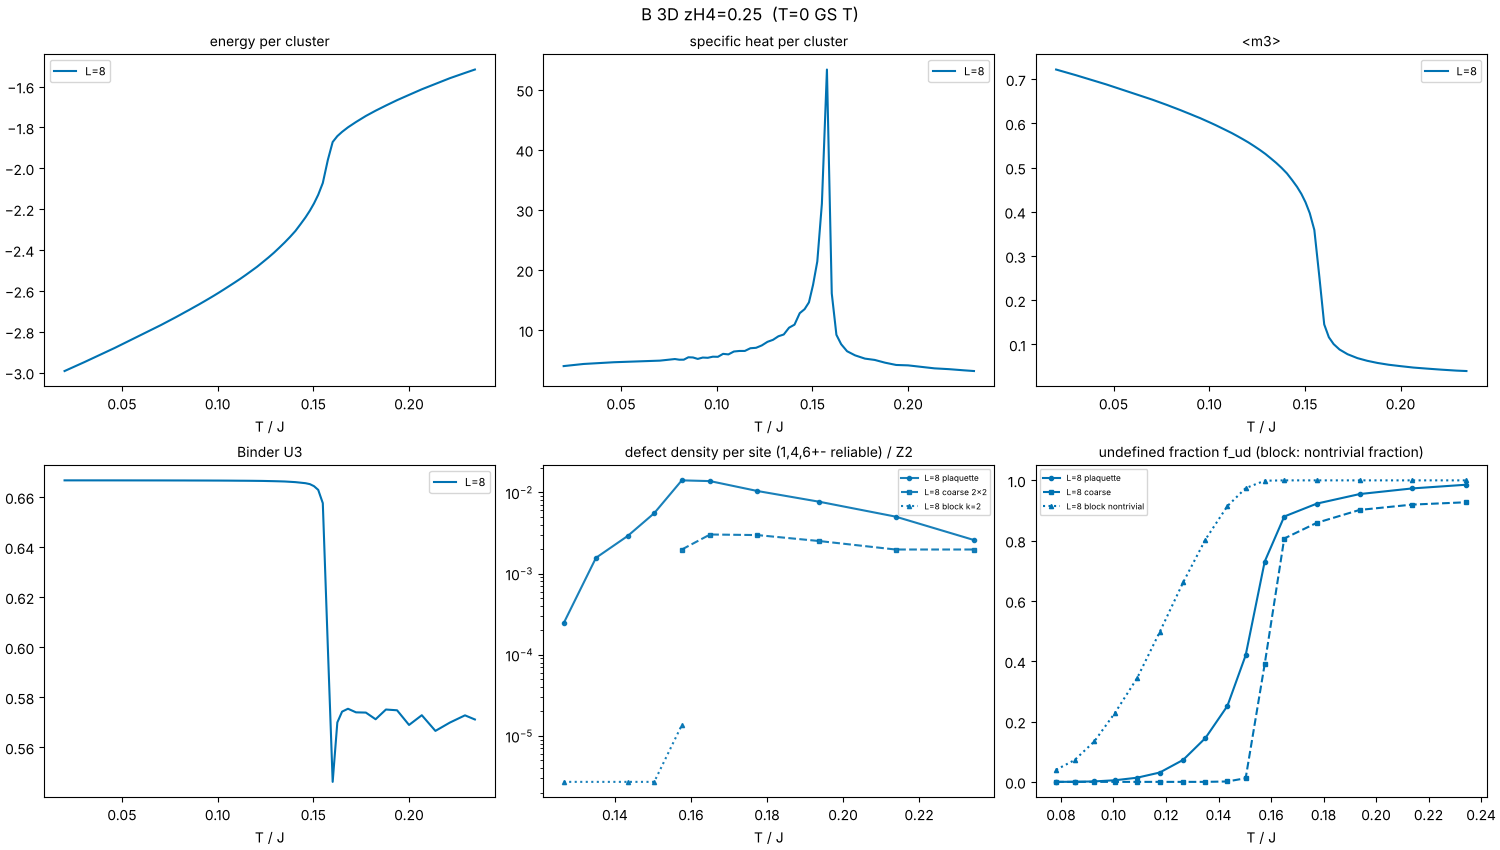
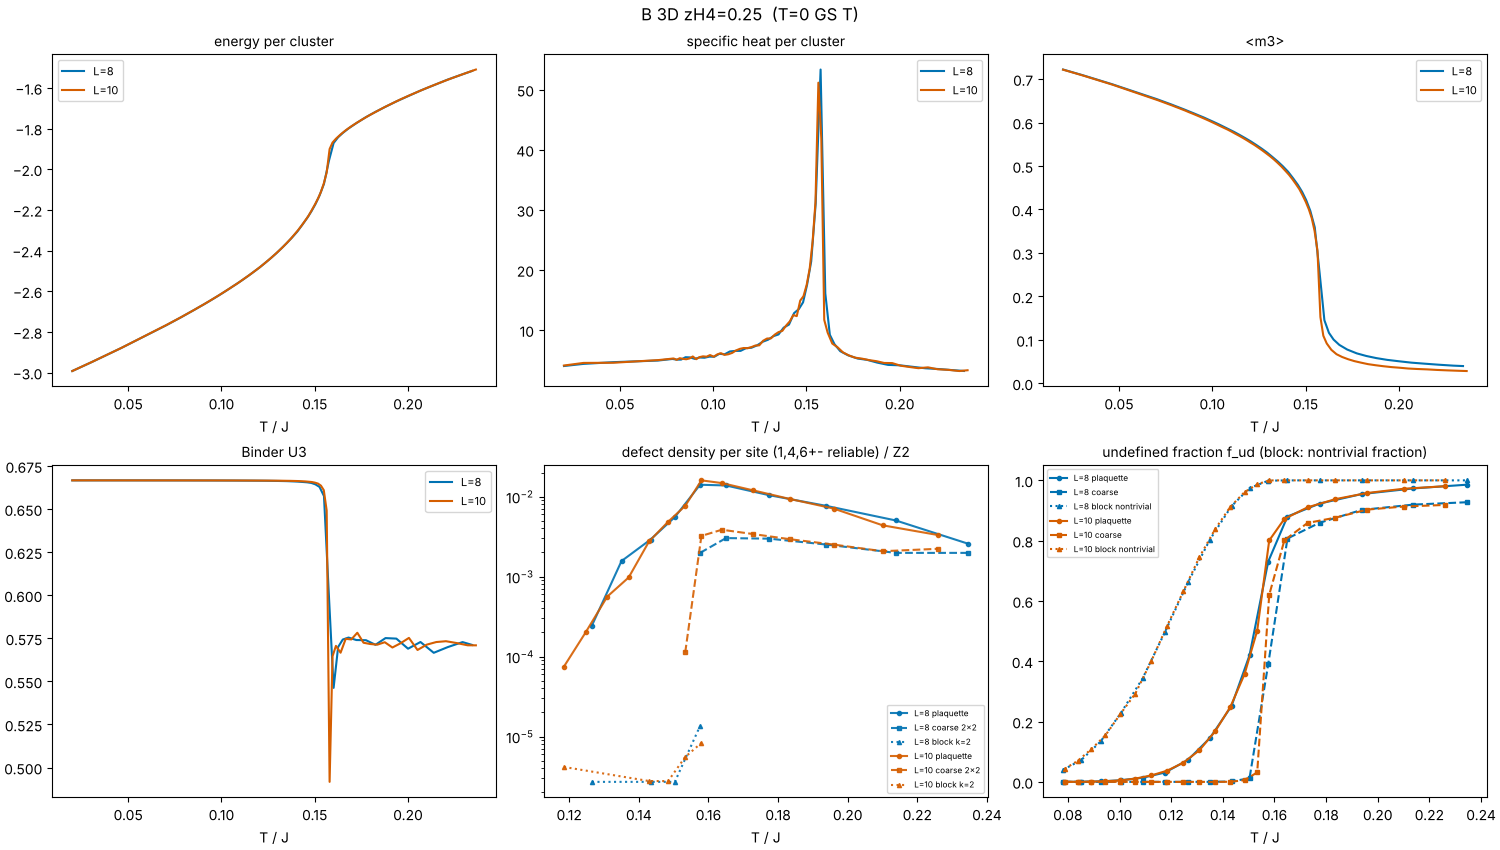
M4 stage-1 tier-2 report with tables, bimodality check
Claude-Session: https://claude.ai/code/session_01Esc9CtzvPxuMvhEnxWoDri

diff --git a/tools/tier2_tables.py b/tools/tier2_tables.py
@@ -1,0 +1,62 @@
+"""Tier-2 tables from data/stage1/*.npz: size dependence of c_peak / T_c / Binder / PT health (A, B pt),
+heat-cool windows (B first-order points), defect statistics at T_c (coarse detector, plaquette) and scale ratio R_b.
+Usage: python tools/tier2_tables.py"""
+import glob, json, re
+from collections import defaultdict
+from pathlib import Path
+import numpy as np
+from polyspin.analysis.finite_size import loglog_slope
+
+def load(p):
+    z = np.load(p, allow_pickle=False); d = {k: z[k] for k in z.files}
+    d["attrs"] = json.loads(str(z["attrs"])); return d
+
+runs = defaultdict(dict)
+for p in sorted(glob.glob("data/stage1/*.npz")):
+    cut, dim, L, par, val, tag = re.match(r"(\w+?)_(\d)d_L(\d+)_(zG|zH4)([\d.]+)_(\w+)\.npz", Path(p).name).groups()
+    runs[(cut, int(dim), float(val))][(int(L), tag)] = load(p)
+
+def peak(d):
+    i = int(np.argmax(d["th_c"])); return i
+print("## PT points: size dependence")
+print("| point | L | N | T_peak | c_peak | Binder min(m1..) | swap min | trips | rho_coarse(T_c) | f_ud,coarse(T_c) | f_ud,plaq(T_c) | R_b |")
+print("|---|---|---|---|---|---|---|---|---|---|---|---|")
+exps = {}
+for (cut, dim, val), g in sorted(runs.items()):
+    Ls = sorted(L for (L, t) in g if t == "pt")
+    if not Ls: continue
+    Ns, cp, Tp = [], [], []
+    for L in Ls:
+        d = g[(L, "pt")]; i = peak(d)
+        key = d['dm_coarse_und_frac'] if 'dm_coarse_und_frac' in d else None
+        j = i
+        if key is not None and not np.isfinite(key[i]):
+            ok = np.where(np.isfinite(key))[0]; j = ok[np.argmin(abs(d['T'][ok] - d['T'][i]))] if len(ok) else i
+        cd = d['dm_coarse_density'][j] if 'dm_coarse_density' in d else np.full(7, np.nan); dens = cd[:4].sum() if cd.ndim else cd  # all reportable classes approx
+        names = json.loads(str(d.get('class_names', '[]'))) if False else ['1','6+','3+','4','6-','3-','2']
+        rep = [k for k, nm in enumerate(names) if nm in ('4','6+','6-')]
+        rho = cd[rep].sum()
+        rb = d['dm_scale_ratio_R4'][j] if 'dm_scale_ratio_R4' in d else float('nan')
+        print(f"| {cut} {dim}D {val} | {L} | {d['attrs']['N']} | {d['T'][i]:.4f} | {d['th_c'][i]:.1f} | {np.nanmin(d['th_binder'][:,1]):.3f} | {d['swap'].min():.2f} | {int(d['round_trips'])} | {rho:.2e} | {d['dm_coarse_und_frac'][j] if 'dm_coarse_und_frac' in d else float('nan'):.2f} | {d['dm_plaq_und_frac'][j]:.2f} | {rb:.2f} |")
+        Ns.append(d["attrs"]["N"]); cp.append(d["th_c"][i]); Tp.append(d["T"][i])
+    if len(Ls) >= 2:
+        a, ea = loglog_slope(np.array(Ns, float), np.array(cp))
+        exps[(cut, dim, val)] = (a, ea, Ls)
+print("\n## c_peak ~ N^a (a=1: first order; 2D/3D continuous: alpha/(d nu))")
+for k, (a, ea, Ls) in exps.items():
+    print(f"- {k[0]} {k[1]}D {k[2]}: L={Ls}: a = {a:.2f} ± {ea:.2f}" if np.isfinite(ea) else f"- {k[0]} {k[1]}D {k[2]}: L={Ls}: a = {a:.2f}")
+print("\n## First-order points: heat vs cool, nematic m2 half-point and energy jump")
+print("| point | L | T_up | T_down | dT | c_peak(heat) | max de (heat) |")
+print("|---|---|---|---|---|---|---|")
+def half(d, l=1):
+    T, m = d["T"], d["th_m"][:, l]; o = np.argsort(T); T, m = T[o], m[o]
+    lo, hi = np.nanmin(m), np.nanmax(m); h = 0.5 * (lo + hi)
+    for i in range(len(T) - 1):
+        if (m[i] - h) * (m[i + 1] - h) <= 0 and m[i] != m[i + 1]:
+            return T[i] + (h - m[i]) * (T[i + 1] - T[i]) / (m[i + 1] - m[i])
+    return np.nan
+for (cut, dim, val), g in sorted(runs.items()):
+    for L in sorted({L for (L, t) in g if t == "heat"}):
+        h, c = g[(L, "heat")], g[(L, "cool")]
+        o = np.argsort(h["T"]); e = h["th_e"][o]
+        print(f"| B {dim}D zH4={val} | {L} | {half(h):.4f} | {half(c):.4f} | {half(h)-half(c):+.4f} | {h['th_c'].max():.0f} | {np.nanmax(np.diff(e)):.2f} |")

diff --git a/docs/M4_stage1_tier2_report.md b/docs/M4_stage1_tier2_report.md
@@ -1,0 +1,59 @@
+# M4 1단계 2층 보고 — 3D L = 10, 2D L = 24 완료 (56개 실행)
+
+2층(절단선 A zG = 0.5, 1.0, 1.5; 절단선 B zH₄ = 0.25, 1.0, 2.0)이 끝났다. 1층과 합쳐 `data/stage1/`에 요약 56개가 있다(원자료 HDF5는 `runs/stage1/`, git 제외). 표는 `tools/tier2_tables.py`가 만들고 `docs/tier2_tables.md`에 있다. 그림은 `docs/figures/stage1/`.
+**T = 0 해석값과 모순되는 결과는 없다.** 아래는 기대와 달랐던 점부터 쓴다.
+
+## 먼저 알릴 것
+
+### 1. 계산 중단과 재개 (결과에는 영향 없음)
+컨테이너가 대화 사이에 여러 번 재부팅되어 러너가 죽었고, 하루 이상 진행이 멈췄다. 대화가 이어지는 동안에는 러너가 살아 있어서, 모니터를 걸어 둔 채 나머지를 끝냈다. 3D zH₄ = 2 heat 실행은 "resumed from checkpoint" 줄 없이 다시 돌았을 수 있다(체크포인트 이어받기 여부를 확인하지 못했다). 완료된 출력은 시드와 설정이 같고 스윕 수가 계획과 같으므로 결과 해석에는 영향이 없다고 본다. 무인 장시간 계산(3층, 약 10 h)에는 같은 문제가 재발하므로 아래 "결정이 필요한 것" 2번에 올렸다.
+
+### 2. 3D A에서 1차 전이의 증거는 아직 없다 — 판정도 못 한다 (H1)
+| 점 | c_peak 지수 a (c ∝ N^a, L = 8→10) | 에너지 누적량 V (2/3이면 이중봉우리 없음) | 교환율 최소 (L = 8 → 10) | 왕복 (L = 8 → 10) |
+| --- | --- | --- | --- | --- |
+| zG = 0.5 | 0.49 | 0.6661 → 0.6662 | 0.28 → 0.19 | 15 → 6 |
+| zG = 1.0 | 0.12 | 0.6646 → 0.6654 | 0.28 → 0.20 | 23 → 5 |
+| zG = 1.5 | 0.17 | 0.6646 → 0.6652 | 0.27 → 0.25 | 16 → 6 |
+- 1차 전이라면 a → 1이다. 측정한 a는 0.12–0.49로 1보다 훨씬 작다. 에너지 누적량도 2/3와 3 × 10⁻³ 이내로 같다. 그러나 **크기가 두 개(8, 10)뿐이고 L = 10의 왕복이 5–6회, 교환율 최소가 0.19–0.20**이라 지수의 오차가 크다(오차는 아직 정량하지 않았다). "연속 전이"도 "약한 1차"도 단정하지 않는다. 3층(L = 12)의 결과와 함께 판정한다.
+- **사전 정의한 이중봉우리 규칙이 A 3D L = 10 zG = 0.5에서 "이중봉우리"로 표시됐다**(ΔBIC = 3431, 분리 0.042). 같은 표에서 골 비율은 1.00(골이 없음)이고 누적량은 2/3이다. ΔBIC가 모든 실행에서 2000–3400으로 큰 것은 자기상관이 있는 시계열에 독립 표본 BIC를 쓰기 때문으로 의심한다(확인하지 않았다). 따라서 이 표시는 증거로 쓰지 않는다. 규칙은 바꾸지 않았고, 골 비율과 누적량을 우선 보는 것이 맞는지는 결정 사항(3번)에 올린다. 표: `docs/tier2_bimodality.md`.
+- 전이 온도는 크기에 거의 의존하지 않는다: zG = 0.5, 1.0, 1.5에서 T_peak = 0.1465 → 0.1479, 0.2478 → 0.2490, 0.3306 → 0.3366(L = 8 → 10). 비열 피크 값은 26.5 → 36.8, 32.6 → 35.4, 23.7 → 26.5.
+
+### 3. B 절단선의 1차 전이: 가열·냉각 창이 크기에 따라 달라지고, 한 점은 앞뒤가 맞지 않는다 (H3)
+nematic m₂가 절반이 되는 온도:
+| 점 | L | T_up (가열) | T_down (냉각) | 차이 | 비열 피크(가열) |
+| --- | --- | --- | --- | --- | --- |
+| 2D zH₄ = 1.0 | 16 / 24 | 0.3575 / 0.3576 | 0.3471 / 0.3437 | +0.010 / +0.014 | 40 / 46 |
+| 2D zH₄ = 2.0 | 16 / 24 | 0.8848 / 0.8825 | 0.8888 / 0.8843 | −0.004 / −0.002 | 275 / 491 |
+| 3D zH₄ = 1.0 | 8 / 10 | 0.3700 / 0.3697 | 0.3666 / **0.4008** | +0.003 / **−0.031** | 1279 / 55 |
+| 3D zH₄ = 2.0 | 8 / 10 | 0.8962 / 0.9005 | 0.8788 / 0.8692 | +0.017 / +0.031 | 51 / 67 |
+- 2D zH₄ = 1.0과 3D zH₄ = 2.0에서 가열 − 냉각 차이가 크기와 함께 커진다(0.010 → 0.014, 0.017 → 0.031). 1차 전이의 준안정성이 큰 크기에서 넓어진다는 예상(후속 6.2.1)과 같은 방향이다. 그러나 크기가 둘뿐이다.
+- **3D zH₄ = 1.0 L = 10은 냉각 쪽 반값 온도(0.4008)가 가열 쪽(0.3697)보다 높다.** 1차 전이의 히스테리시스는 가열이 위, 냉각이 아래여야 하므로 이 순서는 물리적 창이 아니다. 냉각 실행의 m₂ 곡선이 단조롭지 않아 반값 교차가 엉뚱한 곳에서 잡혔거나 냉각 실행이 평형에 못 간 것으로 의심한다(m₂ 곡선을 아직 확인하지 않았다). L = 8의 0.3700/0.3666은 이상이 없다. 이 점의 L = 10 T_c는 아직 정하지 않았다. 또 L = 8의 비열 피크 1279는 L = 10의 55와 크게 달라, 가열 사다리의 한 번 뒤집힘에 좌우된 값으로 보인다. 3D zH₄ = 1.0의 비열 값은 해석에 쓰지 않는다.
+- 2D zH₄ = 2.0은 창이 0 근처이고 비열 피크가 275 → 491로 자란다(N ∝ L²이므로 지수 약 0.7).
+
+### 4. 결함 통계 (H2)
+전이점 근처(비열 피크 온도, 결함 통계가 없는 온도면 가장 가까운 온도)의 값:
+| 점 | L | 거칠게 보기 밀도 /site | f_ud 거칠게 보기 | f_ud 플라켓 |
+| --- | --- | --- | --- | --- |
+| A 2D 0.5 | 16 / 24 | 1.2 / 1.0 × 10⁻³ | 0.13 / 0.14 | 0.26 / 0.26 |
+| A 2D 1.0 | 16 / 24 | 2.2 / 1.7 × 10⁻³ | 0.24 / 0.23 | 0.59 / 0.55 |
+| A 2D 1.5 | 16 / 24 | 0 / 0 | 0.17 / 0.23 | 0.73 / 0.77 |
+| A 3D 0.5 | 8 / 10 | 2.6 / 2.9 × 10⁻³ | 0.44 / 0.49 | 0.74 / 0.75 |
+| A 3D 1.0 | 8 / 10 | 1.2 / 1.3 × 10⁻³ | 0.48 / 0.42 | 0.91 / 0.90 |
+| A 3D 1.5 | 8 / 10 | 0.3 / 0.7 × 10⁻³ | 0.14 / 0.28 | 0.93 / 0.95 |
+| B 2D 0.25 | 16 / 24 | 2.4 / 2.3 × 10⁻³ | 0.37 / 0.33 | 0.45 / 0.42 |
+| B 3D 0.25 | 8 / 10 | 2.0 / 3.2 × 10⁻³ | 0.39 / 0.62 | 0.73 / 0.80 |
+- 밀도(류 4, 6±)는 L = 16 → 24(2D)에서 거의 변하지 않아 점 결함 밀도가 사이트당 일정한 것과 일관된다. 2D A zG = 1.5의 밀도 0은 이 점에서 거칠게 보기 검출기가 결함을 못 찾는 것이다(f_ud는 0.17–0.23).
+- 후속 6.3의 H2 기준(ρ_def가 급증하는 동안 f_ud < 10%)은 **전이점에서 어느 점도 만족하지 못한다**(거칠게 보기 f_ud 0.13–0.62, 플라켓 0.26–0.95). 가장 가까운 것은 2D A zG = 0.5(0.13–0.14)이다. 3D에서는 L이 커질수록 f_ud가 오히려 커지는 경우가 있다(3D A zG = 1.5: 0.14 → 0.28, B 0.25: 0.39 → 0.62). **H2는 이 단계에서 판정하지 않는다**: 이 기준이 "전이점에서의 f_ud"인지 "ρ_def가 최댓값의 반을 넘는 온도에서의 f_ud"인지에 따라 결과가 달라질 수 있어 온도 곡선을 비교한 뒤 정한다.
+- 규모 비 R_b = ρ(b = 4)/ρ(b = 2) (2D L = 24): A 0.5 → 0.26, A 1.0 → 0.34, A 1.5 → 0.30, B 0.25 → 0.28. 해석은 L = 32 값과 함께 한다(L = 16에는 b = 4 자료가 없다). 3D L = 10은 4로 나눠지지 않아 R_b가 없다.
+
+### 5. PT 상태는 L = 10 3D에서 나빠졌다
+2D L = 24: 교환율 최소 0.23–0.27, 왕복 25–29. 3D L = 10: 교환율 최소 0.19–0.25, **왕복 5–6**(L = 8은 15–23), B 3D zH₄ = 0.25는 교환율 최소 0.04(L = 8은 0.07). 통계 오차가 L = 8보다 크고, 특히 B 3D zH₄ = 0.25는 제대로 섞이지 못해 이 점의 L = 10 값(c_peak 51, f_ud 0.62)은 신뢰도가 낮다. 3층 3D L = 12에서는 복제본 수를 더 늘리거나 사다리를 다시 설계해야 한다.
+
+## 다음 단계 제안
+- **3층**: 3D L = 12 A zG = 0.5, 1.0, 1.5와 2D L = 32 A zG = 1.0(m₃ 멱법칙 대 지수 감쇠 확인), 추정 약 10 h. 3D에서 L = 12는 A 세 점의 비열 지수를 세 번째 크기로 확인하는 데 필요하다.
+- B 3D zH₄ = 1.0 L = 10의 m₂ 곡선을 먼저 확인하고(냉각 실행 평형 여부), 이상이 확인되면 그 점만 다시 돌린다.
+
+## 결정이 필요한 것
+1. **H2 기준의 평가 온도**: "전이점에서 f_ud < 10%"가 아니라 "ρ_def가 최댓값의 반을 넘는 첫 온도에서 f_ud < 10%"로 읽어도 되는가? 지금 전이점 값으로는 모든 점이 기준을 넘는다.
+2. **무인 장시간 계산**: 대화가 없으면 러너가 죽는다. (a) 3층을 대화를 이어 가면서 돌린다(모니터 방식, 약 10 h), (b) 상시 가동 머신에서 `tools/stage_runner.py --stage 1 --tier 3`을 돌리고 요약만 푸시한다, (c) 3층 범위를 줄인다.
+3. **이중봉우리 규칙**: ΔBIC가 자기상관 때문에 항상 크다. 판정에서 골 비율과 에너지 누적량을 우선하도록 바꿔도 되는가? (규칙은 아직 바꾸지 않았다.)

diff --git a/docs/tier2_tables.md b/docs/tier2_tables.md
@@ -1,0 +1,41 @@
+## PT points: size dependence
+| point | L | N | T_peak | c_peak | Binder min(m1..) | swap min | trips | rho_coarse(T_c) | f_ud,coarse(T_c) | f_ud,plaq(T_c) | R_b |
+|---|---|---|---|---|---|---|---|---|---|---|---|
+| A 2D 0.5 | 16 | 256 | 0.1286 | 16.9 | 0.506 | 0.28 | 26 | 1.17e-03 | 0.13 | 0.26 | nan |
+| A 2D 0.5 | 24 | 576 | 0.1269 | 16.2 | 0.509 | 0.26 | 27 | 9.98e-04 | 0.14 | 0.26 | 0.26 |
+| A 2D 1.0 | 16 | 256 | 0.2204 | 21.5 | 0.512 | 0.28 | 28 | 2.15e-03 | 0.24 | 0.59 | nan |
+| A 2D 1.0 | 24 | 576 | 0.2167 | 25.0 | 0.511 | 0.23 | 29 | 1.65e-03 | 0.23 | 0.55 | 0.34 |
+| A 2D 1.5 | 16 | 256 | 0.2901 | 22.2 | 0.518 | 0.28 | 19 | 0.00e+00 | 0.17 | 0.73 | nan |
+| A 2D 1.5 | 24 | 576 | 0.2888 | 23.4 | 0.518 | 0.27 | 28 | 0.00e+00 | 0.23 | 0.77 | 0.30 |
+| A 3D 0.5 | 8 | 512 | 0.1465 | 26.5 | 0.503 | 0.28 | 15 | 2.59e-03 | 0.44 | 0.74 | nan |
+| A 3D 0.5 | 10 | 1000 | 0.1479 | 36.8 | 0.507 | 0.19 | 6 | 2.91e-03 | 0.49 | 0.75 | nan |
+| A 3D 1.0 | 8 | 512 | 0.2478 | 32.6 | 0.510 | 0.28 | 23 | 1.22e-03 | 0.48 | 0.91 | nan |
+| A 3D 1.0 | 10 | 1000 | 0.2490 | 35.4 | 0.509 | 0.20 | 5 | 1.27e-03 | 0.42 | 0.90 | nan |
+| A 3D 1.5 | 8 | 512 | 0.3306 | 23.7 | 0.518 | 0.27 | 16 | 2.93e-04 | 0.14 | 0.93 | nan |
+| A 3D 1.5 | 10 | 1000 | 0.3366 | 26.5 | 0.516 | 0.25 | 6 | 6.50e-04 | 0.28 | 0.95 | nan |
+| B 2D 0.25 | 16 | 256 | 0.1416 | 22.3 | 0.496 | 0.28 | 21 | 2.44e-03 | 0.37 | 0.45 | nan |
+| B 2D 0.25 | 24 | 576 | 0.1404 | 22.5 | 0.501 | 0.24 | 25 | 2.32e-03 | 0.33 | 0.42 | 0.28 |
+| B 3D 0.25 | 8 | 512 | 0.1576 | 53.3 | 0.492 | 0.07 | 7 | 1.98e-03 | 0.39 | 0.73 | nan |
+| B 3D 0.25 | 10 | 1000 | 0.1564 | 51.2 | 0.491 | 0.04 | 5 | 3.23e-03 | 0.62 | 0.80 | nan |
+
+## c_peak ~ N^a (a=1: first order; 2D/3D continuous: alpha/(d nu))
+- A 2D 0.5: L=[16, 24]: a = -0.05
+- A 2D 1.0: L=[16, 24]: a = 0.19
+- A 2D 1.5: L=[16, 24]: a = 0.06
+- A 3D 0.5: L=[8, 10]: a = 0.49
+- A 3D 1.0: L=[8, 10]: a = 0.12
+- A 3D 1.5: L=[8, 10]: a = 0.17
+- B 2D 0.25: L=[16, 24]: a = 0.01
+- B 3D 0.25: L=[8, 10]: a = -0.06
+
+## First-order points: heat vs cool, nematic m2 half-point and energy jump
+| point | L | T_up | T_down | dT | c_peak(heat) | max de (heat) |
+|---|---|---|---|---|---|---|
+| B 2D zH4=1.0 | 16 | 0.3575 | 0.3471 | +0.0104 | 40 | 1.80 |
+| B 2D zH4=1.0 | 24 | 0.3576 | 0.3437 | +0.0138 | 46 | 1.79 |
+| B 2D zH4=2.0 | 16 | 0.8848 | 0.8888 | -0.0040 | 275 | 1.77 |
+| B 2D zH4=2.0 | 24 | 0.8825 | 0.8843 | -0.0017 | 491 | 1.60 |
+| B 3D zH4=1.0 | 8 | 0.3700 | 0.3666 | +0.0034 | 1279 | 1.41 |
+| B 3D zH4=1.0 | 10 | 0.3697 | 0.4008 | -0.0311 | 55 | 1.69 |
+| B 3D zH4=2.0 | 8 | 0.8962 | 0.8788 | +0.0174 | 51 | 3.44 |
+| B 3D zH4=2.0 | 10 | 0.9005 | 0.8692 | +0.0313 | 67 | 3.17 |

diff --git a/docs/tier2_bimodality.md b/docs/tier2_bimodality.md
@@ -1,0 +1,10 @@
+| run | T at c_peak | cumulant V (2/3 = none) | bimodal? | dBIC | sep (in e) | valley ratio |
+|---|---|---|---|---|---|---|
+| A_3d_L10_zG0.5 | 0.1479 | 0.6662 | True | 3430.9 | 0.042 | 1.00 |
+| A_3d_L10_zG1.5 | 0.3366 | 0.6652 | False | 2354.4 | 0.061 | 1.00 |
+| A_3d_L10_zG1 | 0.2490 | 0.6654 | False | 2595.6 | 0.025 | 1.00 |
+| A_3d_L8_zG0.5 | 0.1465 | 0.6661 | False | 3182.2 | 0.023 | 1.00 |
+| A_3d_L8_zG1.5 | 0.3306 | 0.6646 | False | 1936.3 | 0.046 | 1.00 |
+| A_3d_L8_zG1 | 0.2478 | 0.6646 | False | 2113.2 | 0.069 | 1.00 |
+| B_3d_L10_zH40.25 | 0.1564 | 0.6663 | False | 3103.6 | 0.044 | 1.00 |
+| B_3d_L8_zH40.25 | 0.1576 | 0.6658 | False | 2507.1 | 0.078 | 1.00 |
